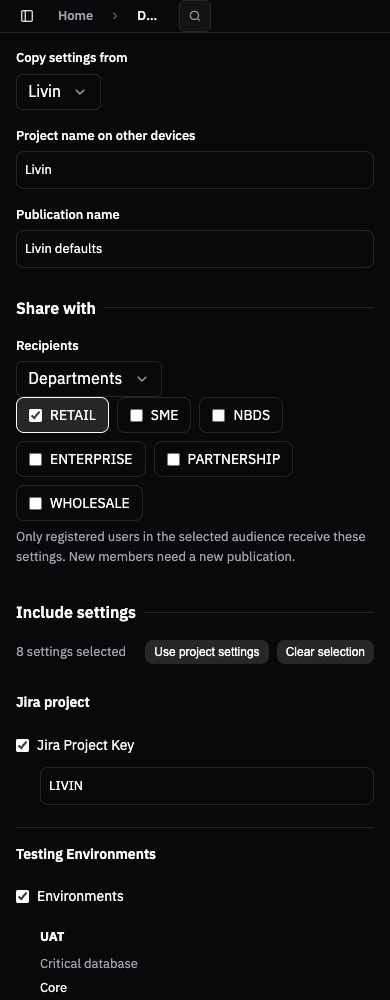
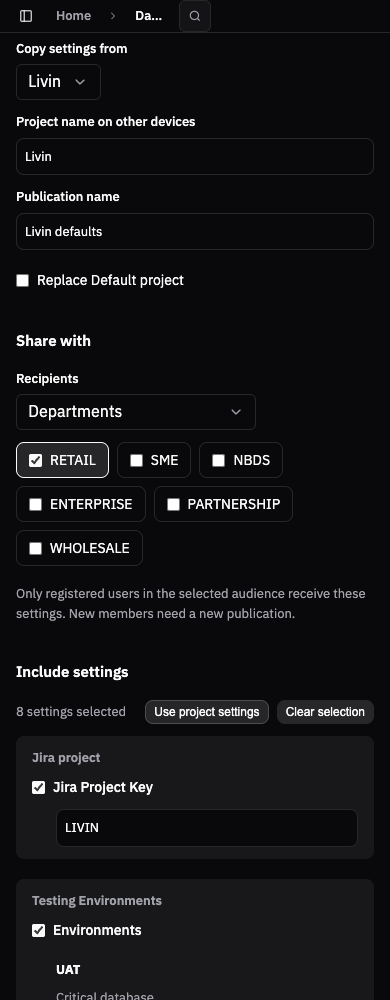
Lay out settings publishing as a form beside a review rail
The publisher was one 2,400px column: every setting group stacked with
its own rule, and the review and history far below the form. Groups now
pack into a compact grid and a group with a selected setting spans the
full row for its editor. On wide screens the review, publish action and
history sit in a sticky rail beside the form; below 1180px they follow
it. Project fields share one row and the recipients dropdown keeps its
own width.

Changed region(s): [[0.0308, 0.0, 0.9538, 0.744], [0.0308, 0.651, 0.4, 1.0], [0.3385, 0.0, 0.4, 0.031]]

diff --git a/frontend/pages/dashboard/publishing.css b/frontend/pages/dashboard/publishing.css
@@ -18,7 +18,10 @@
   gap: 8px;
 }
 .publish-heading {
-  margin-bottom: 12px;
+  margin-bottom: 0;
+}
+.publish-history .publish-heading {
+  margin-bottom: 4px;
 }
 .publish-heading h3,
 .publish-preview h3 {
@@ -65,21 +68,35 @@
   flex: 1 1 180px;
   max-width: 360px;
 }
+.publish-form {
+  gap: 32px;
+}
 .publish-form fieldset {
+  display: grid;
+  gap: 12px;
   min-width: 0;
-  margin: 8px 0;
-  padding: 16px 0 0;
+  margin: 0;
+  padding: 0;
   border: 0;
-  border-top: 1px solid hsl(var(--border));
 }
 .publish-form legend {
-  padding: 0 8px 0 0;
+  float: left;
+  width: 100%;
+  margin-bottom: 4px;
+  padding: 0;
+  font-size: 0.9375rem;
   font-weight: 600;
 }
-.publish-form fieldset > select {
-  display: block;
-  max-width: 240px;
-  margin: 8px 0 12px;
+.publish-form legend + * {
+  clear: left;
+}
+.publish-form fieldset > :is(select, .ad-searchable-dropdown) {
+  justify-self: start;
+  width: 240px;
+  max-width: 100%;
+}
+.publish-form fieldset > label:not(.publish-choice) {
+  margin-bottom: -6px;
 }
 .publish-emails {
   display: grid;
@@ -108,9 +125,6 @@
   font-size: 0.8125rem;
   margin: 6px 0;
 }
-.publish-setting-list {
-  display: block;
-}
 .publish-setting {
   min-width: 0;
 }
@@ -127,6 +141,8 @@
   border-top: 1px solid hsl(var(--border));
 }
 .publish-recipients {
+  margin: 8px 0 12px;
+  font-size: 0.8125rem;
   padding-left: 20px;
   max-height: 180px;
   overflow: auto;
@@ -152,13 +168,23 @@
 }
 .publish-history-row > div {
   min-width: 0;
-  overflow-wrap: anywhere;
+  overflow-wrap: break-word;
+}
+.publish-history-row strong {
+  font-size: 0.875rem;
+}
+.publish-history-row p {
+  margin: 4px 0 0;
+}
+.publish-rail .publish-history-row {
+  flex-direction: column;
+  gap: 8px;
 }
 .publish-history-row .publish-actions {
   flex: none;
 }
 .publish-message {
-  margin: 12px 0 0;
+  margin: 0;
   font-size: 0.875rem;
   overflow-wrap: anywhere;
 }
@@ -175,7 +201,42 @@
 }
 
 .publish-workspace {
-  max-width: 1080px;
+  display: grid;
+  grid-template-columns: minmax(0, 1fr) minmax(320px, 380px);
+  align-items: start;
+  gap: 40px;
+}
+.publish-workspace > .publish-form {
+  grid-row: 1 / span 2;
+}
+.publish-rail {
+  position: sticky;
+  top: 48px;
+  display: grid;
+  gap: 24px;
+  max-height: calc(100vh - 64px);
+  overflow-y: auto;
+  overscroll-behavior: contain;
+  scrollbar-gutter: stable;
+}
+.publish-rail .publish-preview,
+.publish-rail .publish-history {
+  margin: 0;
+  padding: 0;
+  border: 0;
+}
+.publish-rail .publish-preview {
+  padding: 16px;
+  border-radius: var(--radius);
+  background: hsl(var(--muted));
+}
+.publish-rail .publish-preview > dl > dd {
+  background: hsl(var(--background));
+}
+.publish-rail .publish-preview [data-action="publish"] {
+  width: 100%;
+  justify-content: center;
+  margin-top: 4px;
 }
 .publish-form label:not(.publish-choice) {
   display: block;
@@ -184,16 +245,15 @@
   font-weight: 500;
 }
 .publish-form .publish-project-fields {
-  display: grid;
-  grid-template-columns: repeat(2, minmax(0, 1fr));
-  gap: 16px;
+  grid-template-columns: repeat(3, minmax(0, 1fr));
+  gap: 12px 16px;
 }
-.publish-project-fields > div:last-of-type {
-  grid-column: 1 / -1;
-  max-width: 520px;
-}
+.publish-project-fields > legend,
 .publish-project-fields > .publish-choice {
   grid-column: 1 / -1;
+}
+.publish-project-fields > .publish-choice {
+  justify-self: start;
 }
 .publish-departments .publish-choice {
   padding: 6px 12px;
@@ -208,23 +268,40 @@
   font-size: 0.8125rem;
   color: hsl(var(--muted-foreground));
 }
-.publish-group {
-  padding: 16px 0;
+.publish-setting-list {
+  display: grid;
+  grid-template-columns: repeat(auto-fill, minmax(200px, 1fr));
+  gap: 20px 24px;
 }
-.publish-group + .publish-group {
-  border-top: 1px solid hsl(var(--border));
+.publish-group {
+  min-width: 0;
+}
+.publish-group:has([data-setting]:checked) {
+  grid-column: 1 / -1;
+  padding: 12px 16px;
+  border-radius: var(--radius);
+  background: hsl(var(--muted) / 0.5);
 }
 .publish-group h3 {
-  margin: 0 0 8px;
-  font-size: 0.875rem;
+  margin: 0 0 2px;
+  font-size: 0.8125rem;
   font-weight: 600;
+  color: hsl(var(--muted-foreground));
 }
 .publish-setting {
   display: grid;
-  grid-template-columns: minmax(180px, 0.8fr) minmax(0, 1.6fr);
+  grid-template-columns: minmax(180px, 0.6fr) minmax(0, 1.6fr);
   align-items: start;
-  gap: 12px 24px;
-  padding: 6px 0;
+  gap: 4px 24px;
+}
+.publish-group:not(:has([data-setting]:checked)) .publish-setting {
+  grid-template-columns: minmax(0, 1fr);
+}
+.publish-group:not(:has([data-setting]:checked)) .publish-choice {
+  min-height: 32px;
+}
+.publish-setting:has(> .publish-value:not([hidden])) .publish-choice {
+  font-weight: 500;
 }
 .publish-record {
   padding: 8px 0;
@@ -269,7 +346,7 @@
   padding-left: 20px;
 }
 .publish-preview > dl {
-  max-width: 760px;
+  margin: 0;
 }
 .publish-preview > dl > dd {
   padding: 8px 12px;
@@ -281,9 +358,24 @@
 .publish-review-audience {
   font-size: 0.875rem;
 }
+@media (max-width: 1180px) {
+  .publish-workspace {
+    grid-template-columns: minmax(0, 1fr);
+    gap: 32px;
+  }
+  .publish-workspace > .publish-form {
+    grid-row: auto;
+  }
+  .publish-rail {
+    position: static;
+    max-height: none;
+    overflow: visible;
+  }
+}
 @media (max-width: 760px) {
   .publish-form .publish-project-fields,
-  .publish-setting {
+  .publish-setting,
+  .publish-group:has([data-setting]:checked) .publish-setting {
     grid-template-columns: minmax(0, 1fr);
   }
   .publish-setting {
@@ -298,4 +390,7 @@
   .publish-record dd + dt {
     margin-top: 6px;
   }
+}
+.publish-auth + .publish-message {
+  margin-top: 12px;
 }

diff --git a/frontend/pages/dashboard/publishing.js b/frontend/pages/dashboard/publishing.js
@@ -157,13 +157,14 @@ export class SettingsPublisher {
               )
                 .map((item) => this.settingRow(item))
                 .join("")}</section></div>
-            <p class="publish-note">Theme, updates and app logins stay personal. Quick Query schemas are not included.</p>
           </fieldset>
           <button type="submit" class="btn btn-secondary">Preview publication</button>
         </form>
-        <section class="publish-preview" hidden aria-label="Publication preview"></section>
-        <section class="publish-history"><div class="publish-heading"><h3>Publication history</h3></div>
-          <div class="publish-history-list"></div></section>
+        <aside class="publish-rail">
+          <section class="publish-preview" hidden aria-label="Publication preview"></section>
+          <section class="publish-history"><div class="publish-heading"><h3>Publication history</h3></div>
+            <div class="publish-history-list"></div></section>
+        </aside>
       </div>
       <p class="publish-message" role="status" aria-live="polite"></p>`;
     this.sessionActions = this.root.querySelector("[data-dashboard-session-actions]");
